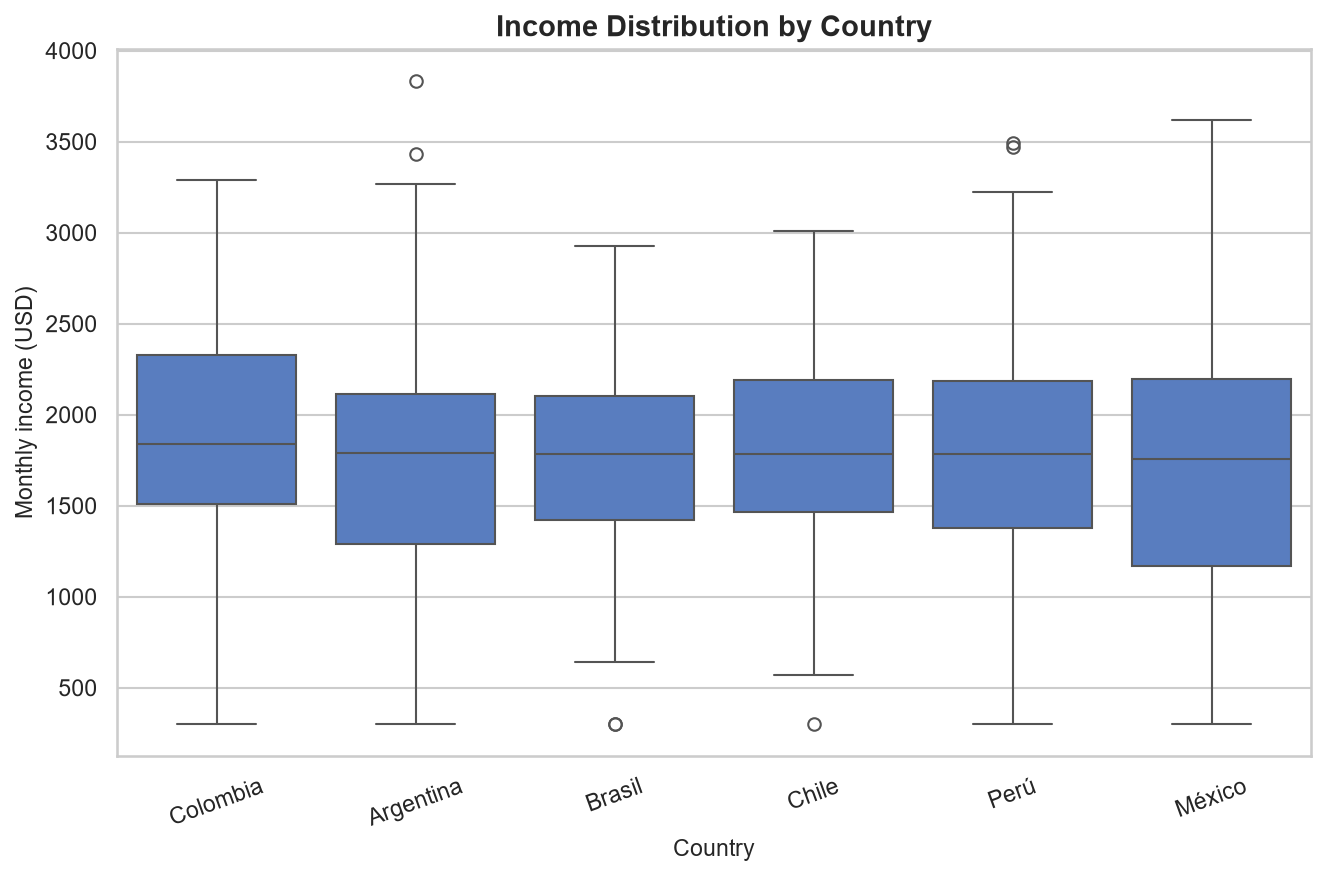
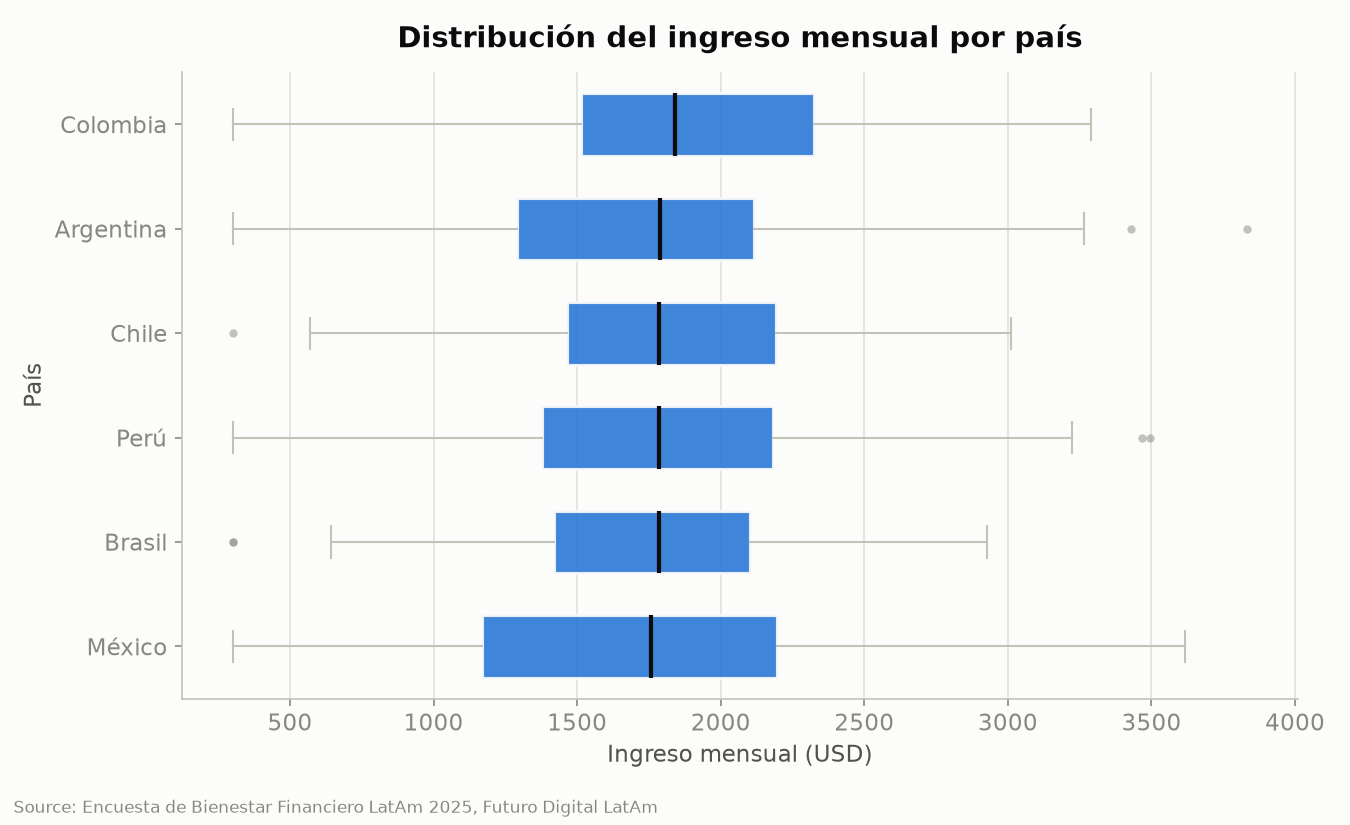
Phase 4 complete — 5 visualisations generated

diff --git a/scripts/04_visualise.py b/scripts/04_visualise.py
@@ -1,0 +1,255 @@
+"""
+04_visualise.py — Generate the 5 report charts for the LATAM finance dataset.
+
+Reads data/latam_finanzas_clean.csv and writes 5 PNGs to charts/:
+  01_income_by_country.png       horizontal box plot, sorted by median income
+  02_age_vs_savings.png          scatter (age vs savings) + regression, by country
+  03_spending_breakdown.png      horizontal bars, avg % of income per category
+  04_satisfaction_by_ai_usage.png bars, avg satisfaction by AI-usage group
+  05_housing_burden_by_country.png horizontal bars, housing % of income, red→green
+
+Palette: validated reference categorical + status ramp from the dataviz skill
+(colorblind-checked; worst adjacent CVD ΔE 24.2). Not matplotlib defaults.
+
+NOTE: satisfaccion_financiera is a 1-10 scale in this dataset (means ~6), so
+chart 04 uses a 1-10 y-axis, not 1-5.
+
+Usage:
+    python scripts/04_visualise.py
+    python scripts/04_visualise.py path/to/clean.csv
+"""
+
+import sys
+from pathlib import Path
+
+import numpy as np
+import pandas as pd
+import matplotlib
+
+matplotlib.use("Agg")
+import matplotlib.pyplot as plt
+from matplotlib.colors import LinearSegmentedColormap
+
+ROOT = Path(__file__).resolve().parent.parent
+DEFAULT_CSV = ROOT / "data" / "latam_finanzas_clean.csv"
+CHART_DIR = ROOT / "charts"
+
+SOURCE_NOTE = (
+    "Source: Encuesta de Bienestar Financiero LatAm 2025, Futuro Digital LatAm"
+)
+
+# ---- Validated palette (from dataviz skill reference, light mode) ----------
+SURFACE = "#fcfcfb"
+INK = "#0b0b0b"        # primary
+INK_2 = "#52514e"      # secondary
+MUTED = "#898781"      # axis/labels
+GRID = "#e1e0d9"       # hairline gridline
+BASELINE = "#c3c2b7"
+
+# Categorical slots in fixed CVD-safe order (blue, aqua, yellow, green, violet, red)
+CATEGORICAL = ["#2a78d6", "#1baf7a", "#eda100", "#008300", "#4a3aa7", "#e34948"]
+PRIMARY_BLUE = "#2a78d6"
+
+GASTO_COLS = [
+    "gasto_vivienda_usd",
+    "gasto_alimentacion_usd",
+    "gasto_transporte_usd",
+    "gasto_entretenimiento_usd",
+    "gasto_educacion_usd",
+    "gasto_salud_usd",
+]
+GASTO_LABEL = {
+    "gasto_vivienda_usd": "Vivienda",
+    "gasto_alimentacion_usd": "Alimentación",
+    "gasto_transporte_usd": "Transporte",
+    "gasto_entretenimiento_usd": "Entretenimiento",
+    "gasto_educacion_usd": "Educación",
+    "gasto_salud_usd": "Salud",
+}
+
+
+def apply_style():
+    plt.rcParams.update(
+        {
+            "figure.facecolor": SURFACE,
+            "axes.facecolor": SURFACE,
+            "savefig.facecolor": SURFACE,
+            "font.family": "DejaVu Sans",
+            "font.size": 11,
+            "text.color": INK,
+            "axes.edgecolor": BASELINE,
+            "axes.labelcolor": INK_2,
+            "axes.titlecolor": INK,
+            "xtick.color": MUTED,
+            "ytick.color": MUTED,
+            "axes.grid": True,
+            "axes.axisbelow": True,
+            "grid.color": GRID,
+            "grid.linewidth": 0.8,
+        }
+    )
+
+
+def finish(fig, ax, path):
+    """Common chrome: recessive spines, source note, tight save."""
+    for side in ("top", "right"):
+        ax.spines[side].set_visible(False)
+    for side in ("left", "bottom"):
+        ax.spines[side].set_color(BASELINE)
+    fig.text(
+        0.01, 0.01, SOURCE_NOTE, fontsize=8, color=MUTED, ha="left", va="bottom"
+    )
+    fig.tight_layout(rect=(0, 0.04, 1, 1))
+    fig.savefig(path, dpi=150)
+    plt.close(fig)
+    print(f"  saved {path.relative_to(ROOT)}")
+
+
+def ai_group(h):
+    if pd.isna(h):
+        return None
+    if 0 <= h <= 3:
+        return "Bajo (0-3h)"
+    if 4 <= h <= 6:
+        return "Medio (4-6h)"
+    if h >= 7:
+        return "Alto (7h+)"
+    return None
+
+
+# ---------------------------------------------------------------- charts ----
+def chart1_income(df):
+    order = (
+        df.groupby("pais")["ingreso_mensual_usd"].median().sort_values().index.tolist()
+    )  # ascending → highest ends on top in a horizontal boxplot
+    data = [df.loc[df["pais"] == c, "ingreso_mensual_usd"].values for c in order]
+    fig, ax = plt.subplots(figsize=(9, 5.5))
+    bp = ax.boxplot(
+        data, orientation="horizontal", patch_artist=True, widths=0.6,
+        medianprops=dict(color=INK, linewidth=2),
+        whiskerprops=dict(color=BASELINE), capprops=dict(color=BASELINE),
+        flierprops=dict(marker="o", markersize=4, markerfacecolor=MUTED,
+                        markeredgecolor="none", alpha=0.5),
+    )
+    for box in bp["boxes"]:
+        box.set(facecolor=PRIMARY_BLUE, edgecolor=SURFACE, linewidth=1.5, alpha=0.9)
+    ax.set_yticklabels(order)
+    ax.set_xlabel("Ingreso mensual (USD)")
+    ax.set_ylabel("País")
+    ax.set_title("Distribución del ingreso mensual por país",
+                 fontsize=14, fontweight="bold", pad=12)
+    ax.grid(axis="y", visible=False)
+    finish(fig, ax, CHART_DIR / "01_income_by_country.png")
+
+
+def chart2_age_savings(df):
+    fig, ax = plt.subplots(figsize=(9, 6))
+    countries = sorted(df["pais"].unique())
+    for i, c in enumerate(countries):
+        sub = df[df["pais"] == c]
+        ax.scatter(sub["edad"], sub["ahorro_mensual_usd"],
+                   s=32, color=CATEGORICAL[i % len(CATEGORICAL)],
+                   edgecolor=SURFACE, linewidth=0.6, alpha=0.85, label=c)
+    # overall linear regression trend line
+    x, y = df["edad"].values, df["ahorro_mensual_usd"].values
+    slope, intercept = np.polyfit(x, y, 1)
+    xs = np.linspace(x.min(), x.max(), 100)
+    ax.plot(xs, slope * xs + intercept, color=INK, linewidth=2, linestyle="--",
+            label=f"Tendencia (pend. {slope:.1f} USD/año)")
+    ax.set_xlabel("Edad (años)")
+    ax.set_ylabel("Ahorro mensual (USD)")
+    ax.set_title("Edad vs. ahorro mensual, por país",
+                 fontsize=14, fontweight="bold", pad=12)
+    ax.legend(frameon=False, fontsize=9, loc="upper right", ncol=2)
+    finish(fig, ax, CHART_DIR / "02_age_vs_savings.png")
+
+
+def chart3_spending(df):
+    mean_income = df["ingreso_mensual_usd"].mean()
+    items = [(GASTO_LABEL[c], df[c].mean() / mean_income * 100) for c in GASTO_COLS]
+    items.sort(key=lambda t: t[1])  # ascending → highest on top
+    labels = [t[0] for t in items]
+    values = [t[1] for t in items]
+    fig, ax = plt.subplots(figsize=(9, 5.5))
+    bars = ax.barh(labels, values, color=PRIMARY_BLUE, edgecolor=SURFACE,
+                   linewidth=1.5, height=0.68)
+    for b, v in zip(bars, values):
+        ax.text(v + 0.4, b.get_y() + b.get_height() / 2, f"{v:.1f}%",
+                va="center", ha="left", color=INK_2, fontsize=10)
+    ax.set_xlabel("% del ingreso mensual promedio")
+    ax.set_ylabel("Categoría de gasto")
+    ax.set_title("Desglose del gasto: % del ingreso por categoría",
+                 fontsize=14, fontweight="bold", pad=12)
+    ax.set_xlim(0, max(values) * 1.15)
+    ax.grid(axis="y", visible=False)
+    finish(fig, ax, CHART_DIR / "03_spending_breakdown.png")
+
+
+def chart4_satisfaction_ai(df):
+    df = df.copy()
+    df["grupo_ia"] = df["horas_herramientas_ia_semana"].apply(ai_group)
+    order = ["Bajo (0-3h)", "Medio (4-6h)", "Alto (7h+)"]
+    means = [df.loc[df["grupo_ia"] == g, "satisfaccion_financiera"].mean() for g in order]
+    ns = [int((df["grupo_ia"] == g).sum()) for g in order]
+    fig, ax = plt.subplots(figsize=(8, 5.5))
+    bars = ax.bar(order, means, color=PRIMARY_BLUE, edgecolor=SURFACE,
+                  linewidth=1.5, width=0.6)
+    for b, v, n in zip(bars, means, ns):
+        ax.text(b.get_x() + b.get_width() / 2, v + 0.15, f"{v:.2f}",
+                ha="center", va="bottom", color=INK, fontsize=12, fontweight="bold")
+        ax.text(b.get_x() + b.get_width() / 2, 0.2, f"n={n}",
+                ha="center", va="bottom", color=SURFACE, fontsize=9)
+    ax.set_ylim(0, 10)
+    ax.set_ylabel("Satisfacción financiera promedio (escala 1–10)")
+    ax.set_xlabel("Uso de herramientas de IA (horas/semana)")
+    ax.set_title("Satisfacción financiera según uso de herramientas de IA",
+                 fontsize=14, fontweight="bold", pad=12)
+    ax.grid(axis="x", visible=False)
+    finish(fig, ax, CHART_DIR / "04_satisfaction_by_ai_usage.png")
+
+
+def chart5_housing(df):
+    g = df.groupby("pais")
+    burden = (g["gasto_vivienda_usd"].mean() / g["ingreso_mensual_usd"].mean() * 100)
+    burden = burden.sort_values()  # ascending → highest on top
+    labels = burden.index.tolist()
+    values = burden.values
+    # red→green gradient: high burden = red (bad), low burden = green (good)
+    cmap = LinearSegmentedColormap.from_list("burden", ["#0ca30c", "#fab219", "#d03b3b"])
+    norm = (values - values.min()) / (values.max() - values.min())
+    colors = [cmap(n) for n in norm]
+    fig, ax = plt.subplots(figsize=(9, 5.5))
+    bars = ax.barh(labels, values, color=colors, edgecolor=SURFACE,
+                   linewidth=1.5, height=0.68)
+    for b, v in zip(bars, values):
+        ax.text(v + 0.25, b.get_y() + b.get_height() / 2, f"{v:.1f}%",
+                va="center", ha="left", color=INK_2, fontsize=10)
+    ax.axvline(30, color=MUTED, linestyle=":", linewidth=1.2)
+    ax.text(30, len(labels) - 0.4, " umbral 30%", color=MUTED, fontsize=8, va="top")
+    ax.set_xlabel("Gasto en vivienda como % del ingreso")
+    ax.set_ylabel("País")
+    ax.set_title("Carga de vivienda por país (rojo = mayor carga)",
+                 fontsize=14, fontweight="bold", pad=12)
+    ax.set_xlim(0, max(values) * 1.15)
+    ax.grid(axis="y", visible=False)
+    finish(fig, ax, CHART_DIR / "05_housing_burden_by_country.png")
+
+
+def main():
+    csv_path = Path(sys.argv[1]) if len(sys.argv) > 1 else DEFAULT_CSV
+    if not csv_path.exists():
+        sys.exit(f"ERROR: file not found: {csv_path}")
+    CHART_DIR.mkdir(parents=True, exist_ok=True)
+    df = pd.read_csv(csv_path, encoding="utf-8")
+    apply_style()
+    print("Generating charts:")
+    chart1_income(df)
+    chart2_age_savings(df)
+    chart3_spending(df)
+    chart4_satisfaction_ai(df)
+    chart5_housing(df)
+    print("Done.")
+
+
+if __name__ == "__main__":
+    main()

diff --git a/session-log.md b/session-log.md
@@ -34,3 +34,10 @@
 2026-07-03 15:55:07 | exit: | 
 2026-07-03 15:59:32 | exit: | 
 2026-07-03 16:08:16 | exit: | 
[phone redacted]:08:25 | exit: | 
[phone redacted]:09:06 | exit: | 
[phone redacted]:11:06 | exit: | 
[phone redacted]:12:24 | exit: | 
[phone redacted]:13:26 | exit: | 
[phone redacted]:14:29 | exit: | 
[phone redacted]:14:37 | exit: | 